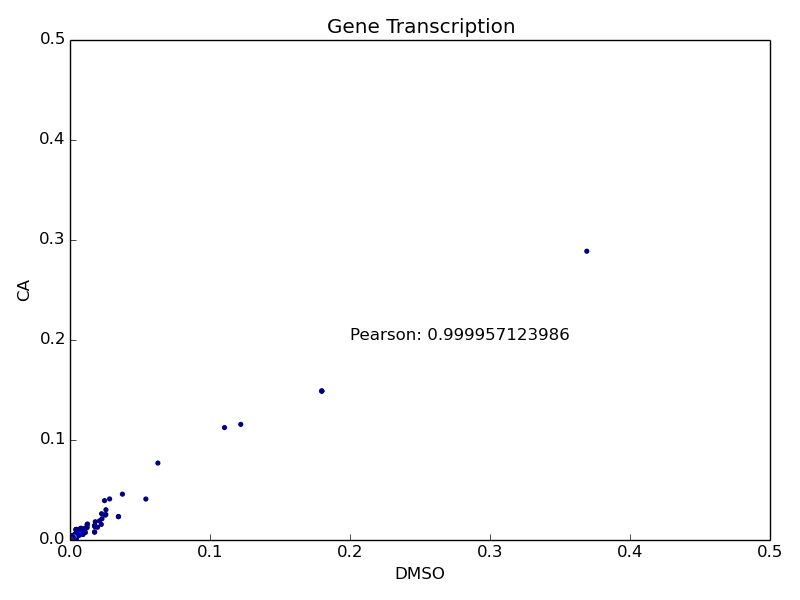
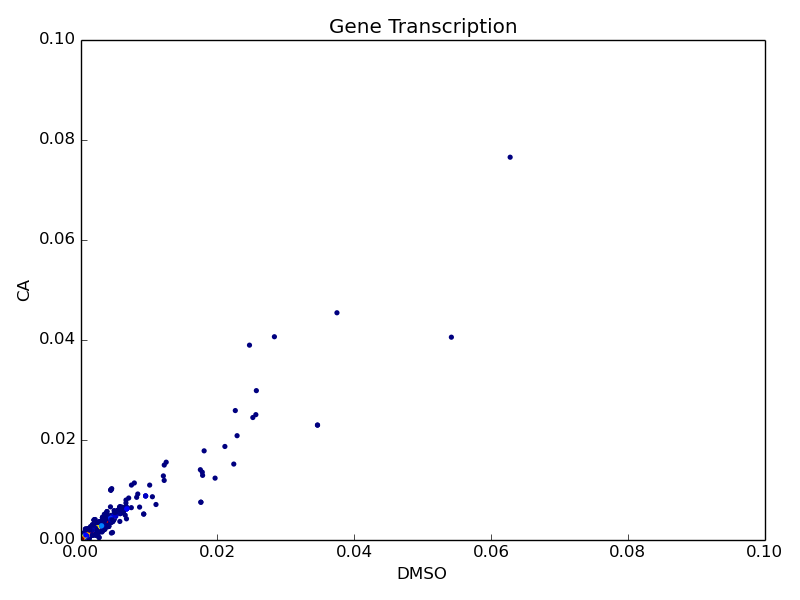
updates

diff --git a/src/master_writer.py b/src/master_writer.py
@@ -353,9 +353,9 @@ def run(DMSOgenes,DMSOTSS,DMSOEND,CAgenes,CATSS,CAEND,filedir,figuredir):
     ax.set_title('Gene Transcription')
     ax.set_xlabel('DMSO')
     ax.set_ylabel('CA')
-    ax.set_xlim([0, 0.1])
-    ax.set_ylim([0, 0.1])
-    ax.text(0.9,0.9, "Pearson: " + str(pearsons))
+    ax.set_xlim([0, 0.02])
+    ax.set_ylim([0, 0.02])
+    ax.text(0.018,0.018, "Pearson: " + str(pearsons)[0:5])
     plt.savefig(figuredir + '/Pearson.png')
     
     meanX = np.mean(TRx)
@@ -386,7 +386,7 @@ def run(DMSOgenes,DMSOTSS,DMSOEND,CAgenes,CATSS,CAEND,filedir,figuredir):
     ax1.set_xlim([0, 20])
     ax1.set_ylim([0, 20])
     ax1.plot([0,50.0],[0,50.0],color='k')
-    ax1.text(15,15, "Pearson: " + str(pearsons))
+    ax1.text(15,12, "Pearson: " + str(pearsons)[0:5])
     plt.savefig(figuredir + '/PausingIndex.png')
     
     
